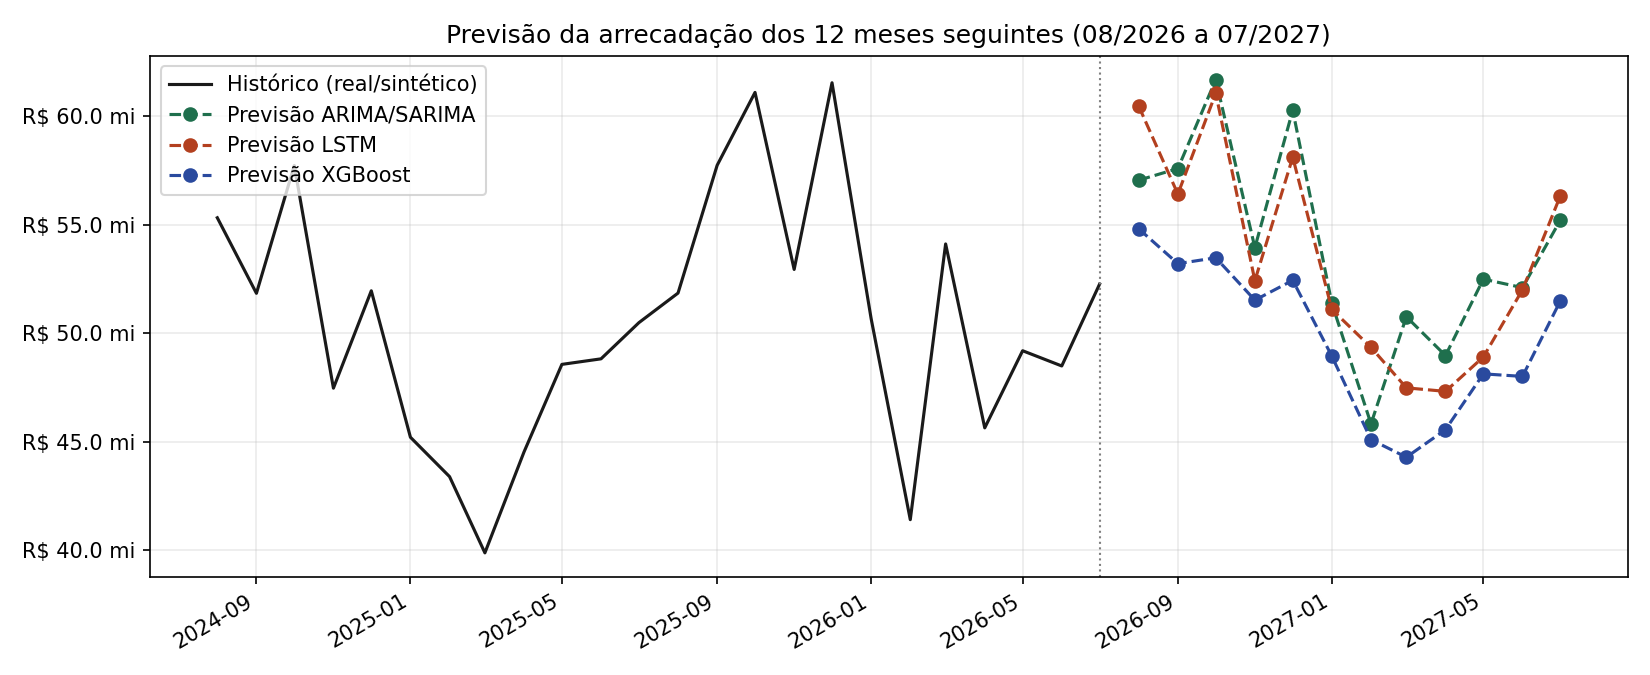
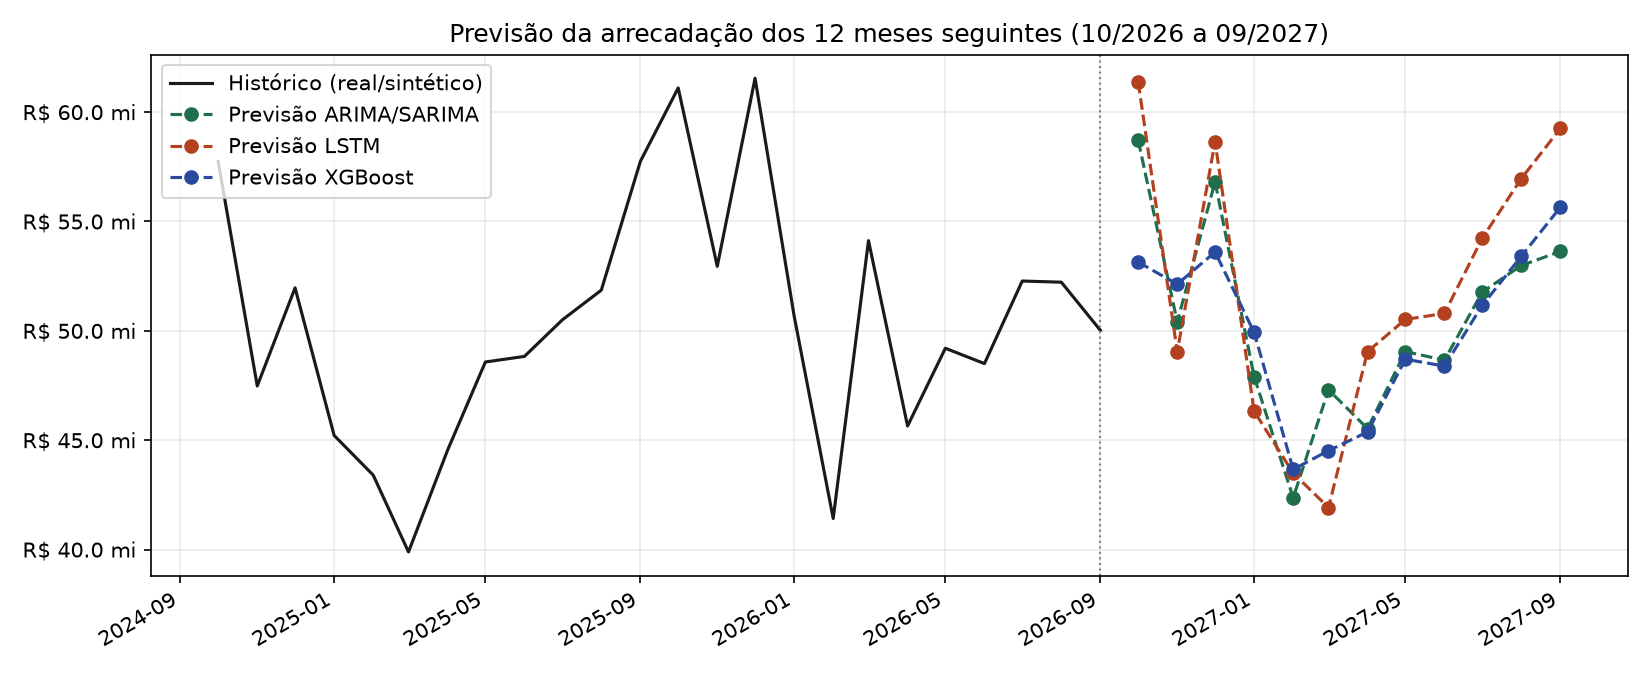
Incorpora dados reais de agosto e setembro/2026 e reexecuta a pipeline
Extrai a Arrecadação Bruta (A) dos boletins FERJ de ago/2026 e set/2026
(pdftotext -table, validado contra jun/jul/2026 já conhecidos) e estende
a série consolidada para 93 meses (jan/2019-set/2026). Reexecuta a
pipeline completa, atualizando métricas, previsões, gráficos e o README
com o novo período de teste (out/2025-set/2026), no qual o XGBoost passa
a superar o SARIMA/ARIMA.

diff --git a/src/data/real_data_loader.py b/src/data/real_data_loader.py
@@ -6,7 +6,7 @@ extrajudiciais do TJMA, consolidada a partir das publicações mensais oficiais
 "Arrecadação Mensal das Serventias Extrajudiciais" (FERJ/TJMA) e do arquivo
 histórico consolidado "faturamento_serventias_2019_2024_corrigido".
 
-Cobertura: janeiro/2019 a julho/2026 (91 meses), sem lacunas.
+Cobertura: janeiro/2019 a setembro/2026 (93 meses), sem lacunas.
 
 Metodologia de consolidação (ver data/raw/_parse_arrecadacao_pdfs.py e
 _consolidar_serie.py para o código de extração original):

diff --git a/README.md b/README.md
@@ -16,7 +16,7 @@ serventias extrajudiciais do Maranhão, consolidada a partir das publicações
 mensais oficiais "Arrecadação Mensal das Serventias Extrajudiciais" (FERJ/TJMA)
 e do arquivo histórico consolidado fornecido pela Corregedoria:
 
-- **Período:** janeiro/2019 a julho/2026 — **91 meses, sem lacunas**.
+- **Período:** janeiro/2019 a setembro/2026 — **93 meses, sem lacunas**.
 - **Nível de agregação:** total estadual (soma da Arrecadação Bruta (A) de
   ~280–290 serventias por mês), conforme cenário-base definido na Seção 3.1 do
   Projeto de Qualificação.
@@ -82,7 +82,7 @@ e otimizador Adam, todos em `src/models/lstm_numpy.py`. Para a fase de
 dissertação, com mais tempo disponível, recomenda-se reimplementar em PyTorch
 ou TensorFlow/Keras, ganhando acesso a regularização (*dropout*), empilhamento
 de camadas e aceleração por GPU — mudança que não deve alterar qualitativamente
-os resultados obtidos aqui, dado o tamanho ainda moderado da série (91 meses).
+os resultados obtidos aqui, dado o tamanho ainda moderado da série (93 meses).
 
 ## Como executar
 
@@ -94,34 +94,34 @@ python3 scripts/run_pipeline.py sintetica  # série sintética (comparação)
 ```
 
 O script imprime o progresso de cada etapa, treina as três arquiteturas, avalia
-no período de teste (últimos 12 meses da série, ago/2025–jul/2026) e gera:
+no período de teste (últimos 12 meses da série, out/2025–set/2026) e gera:
 
 - `outputs/results/metricas_teste.csv` — MAE/RMSE/MAPE de cada modelo;
 - `outputs/results/predicoes_teste.csv` — previsão mês a mês vs. valor real;
 - `outputs/results/previsao_proximos_12_meses.csv` — previsão multi-step dos 12
-  meses seguintes (ago/2026–jul/2027), caso de uso central do objetivo geral
+  meses seguintes (out/2026–set/2027), caso de uso central do objetivo geral
   da pesquisa;
 - `outputs/figures/*.png` — os 4 gráficos comparativos.
 
-Tempo total de execução: cerca de 9 segundos em CPU comum (dados reais, 91
+Tempo total de execução: cerca de 15 segundos em CPU comum (dados reais, 93
 meses) — a maior parte gasta no treinamento da LSTM em NumPy.
 
-## Resultados obtidos (dados REAIS, jan/2019–jul/2026)
+## Resultados obtidos (dados REAIS, jan/2019–set/2026)
 
 Avaliação *walk-forward* um-passo-à-frente no período de teste (12 meses mais
-recentes: agosto/2025 a julho/2026):
+recentes: outubro/2025 a setembro/2026):
 
 | Modelo | MAE | RMSE | MAPE (%) |
 |---|---:|---:|---:|
-| **ARIMA/SARIMA** | 4.144.993,59 | 4.672.584,46 | **8,06** |
-| **XGBoost** | 4.350.871,84 | 5.843.185,72 | 8,08 |
-| **LSTM (NumPy)** | 4.692.830,00 | 6.320.507,42 | 9,02 |
+| **XGBoost** | 4.288.162,21 | 5.638.177,42 | **8,01** |
+| **ARIMA/SARIMA** | 4.237.753,15 | 4.745.362,49 | 8,36 |
+| **LSTM (NumPy)** | 5.594.108,73 | 7.965.571,28 | 10,29 |
 
-O modelo clássico (ARIMA/SARIMA) e o XGBoost tiveram desempenho muito próximo e
-levemente superior ao da LSTM — resultado consistente com a **Hipótese H1** do
+O XGBoost e o modelo clássico (ARIMA/SARIMA) tiveram desempenho muito próximo e
+superior ao da LSTM — resultado consistente com a **Hipótese H1** do
 Projeto de Qualificação (Seção 1.5), que antecipava que, com volume de dados
-ainda moderado (79 meses de treino), modelos clássicos ou de árvore tendem a
-igualar ou superar redes neurais recorrentes. O MAPE em torno de 8-9% é um
+ainda moderado (81 meses de treino), modelos clássicos ou de árvore tendem a
+igualar ou superar redes neurais recorrentes. O MAPE em torno de 8-10% é um
 patamar razoável para uma primeira rodada, sem otimização de hiperparâmetros —
 há margem clara de melhoria a explorar na fase de dissertação (ajuste fino da
 ordem do SARIMA, tamanho de janela e regularização da LSTM, profundidade do
@@ -132,7 +132,7 @@ Os quatro gráficos gerados (`outputs/figures/`) mostram, respectivamente:
 visivelmente a queda associada à pandemia em 2020; **(2)** a previsão
 um-passo-à-frente das três arquiteturas contra o valor real no período de
 teste; **(3)** a comparação de métricas de erro; e **(4)** a previsão
-multi-step dos 12 meses seguintes (ago/2026–jul/2027).
+multi-step dos 12 meses seguintes (out/2026–set/2027).
 
 ## Próximos passos (fase de dissertação)
 
